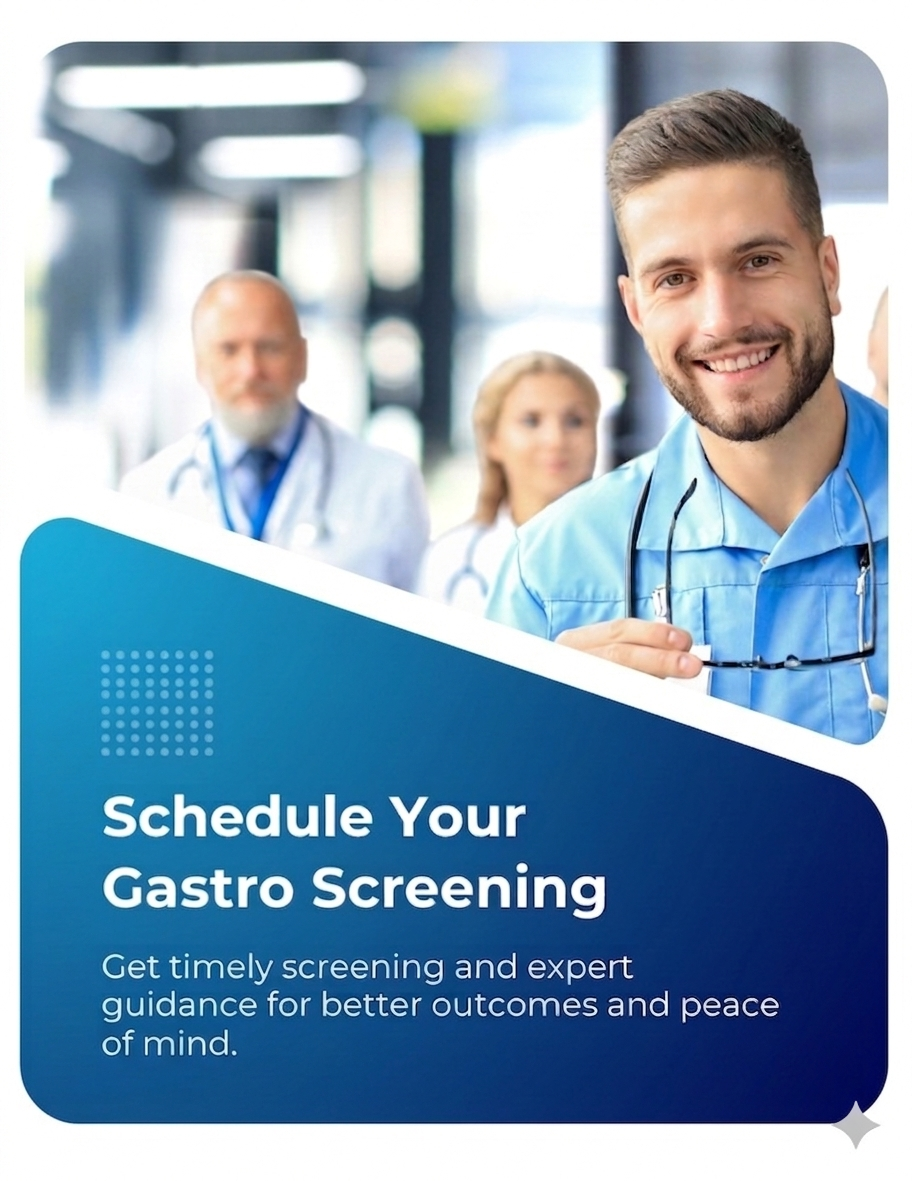
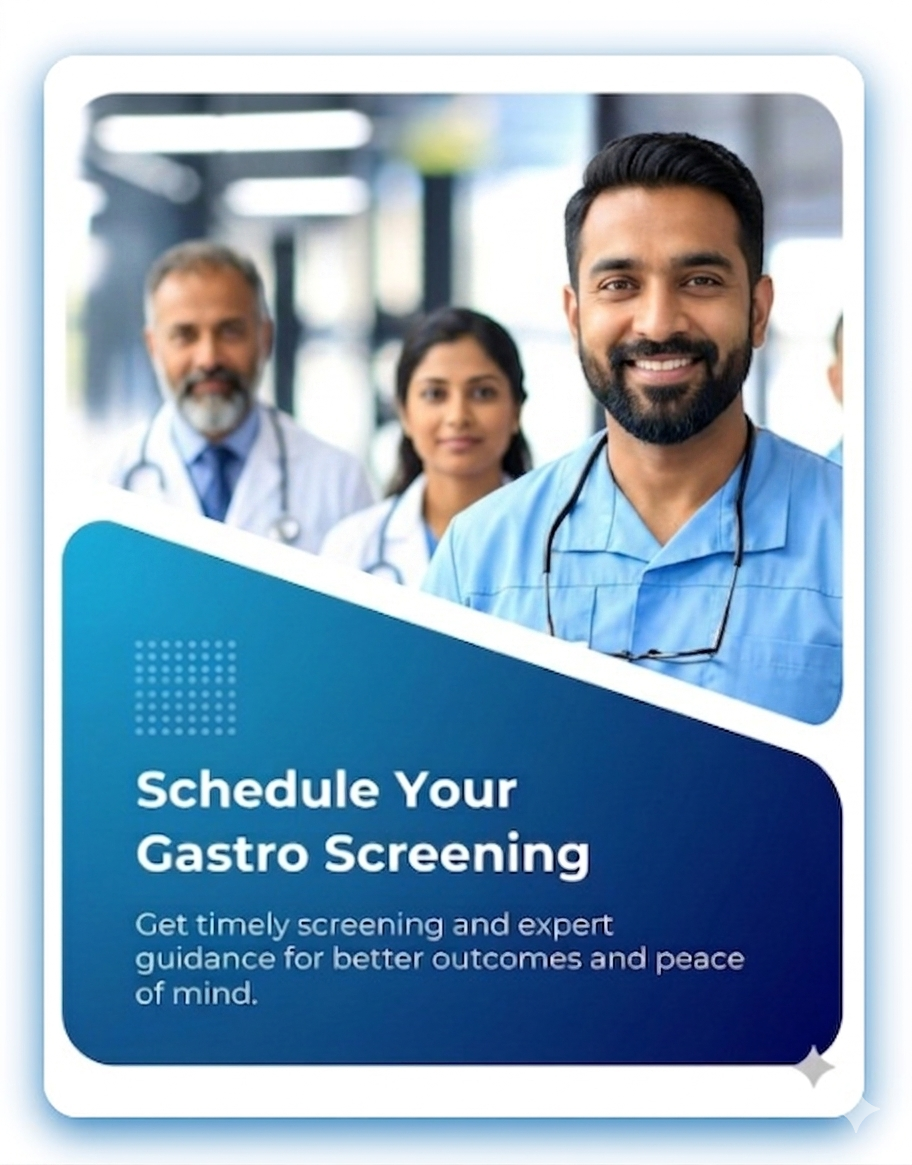
design change

diff --git a/index.html b/index.html
@@ -1106,7 +1106,7 @@
                                     
 
                                     <li class="hide-on-scroll">
-                                        <a href="https://182.71.200.13:50030/" target="_blank" class="btn report-btn" id="report-btn">Book Appointment<i class="fa-solid fa-download" style="font-size: 15px; margin-left:3px;"></i></a>
+                                        <a href="appointment.html" target="_blank" class="btn report-btn" id="report-btn">Book Appointment<i class="fa-solid fa-download" style="font-size: 15px; margin-left:3px;"></i></a>
                                     </li>
                                 </ul>
                             </nav>
@@ -1288,21 +1288,7 @@ document.addEventListener("DOMContentLoaded", function () {
             </picture>
             
         </div>
-        <div class="slide-item">
-            <picture>
-                <!-- Mobile image -->
-                <source media="(max-width: 767px)" srcset="image_website/banner15.png">
-                <!-- Desktop image -->
-                <img src="image_website/banner15.png"
-                    alt=" "
-                    width="1920"
-                    height="550"
-                    loading="eager"                             
-                    fetchpriority="high"                             
-                    class="banner-img img-fluid">
-            </picture>
-            
-        </div>
+       
         <div class="slide-item">
             <picture>
                 <!-- Mobile image -->
@@ -1319,11 +1305,9 @@ document.addEventListener("DOMContentLoaded", function () {
             
         </div>
  
-        <div class="slide-item">
+        <!-- <div class="slide-item">
             <picture>
-                <!-- Mobile image -->
                 <source media="(max-width: 767px)" srcset="image_website/banner3.png">
-                <!-- Desktop image -->
                 <img src="image_website/banner3.png"
                     alt=" "
                     loading="eager"                             
@@ -1334,9 +1318,7 @@ document.addEventListener("DOMContentLoaded", function () {
         </div>
         <div class="slide-item">
             <picture>
-                <!-- Mobile image -->
                 <source media="(max-width: 767px)" srcset="image_website/banner11.png">
-                <!-- Desktop image -->
                 <img src="image_website/banner11.png"
                     alt=" "
                     width="1920"
@@ -1350,9 +1332,7 @@ document.addEventListener("DOMContentLoaded", function () {
         
         <div class="slide-item">
             <picture>
-                <!-- Mobile image -->
                 <source media="(max-width: 767px)" srcset="image_website/banner2.png">
-                <!-- Desktop image -->
                 <img src="image_website/banner2.png"
                     alt=" "
                     width="1920"
@@ -1362,7 +1342,7 @@ document.addEventListener("DOMContentLoaded", function () {
                     class="banner-img img-fluid">
             </picture>
             
-        </div>
+        </div> -->
 
                 
         
@@ -1590,7 +1570,7 @@ color: white;
                 <!-- Service Block -->
                                         <div class="service-block col-lg-4 col-md-6 col-sm-12">
                             <div class="">
-                                <span><a href=""><img src="image_website/paeditraic_oncology.jpeg" alt="Cardiac Sciences" loading="lazy" style="border-radius:10px;"></a></span>
+                                <span><a href=""><img src="image_website/general_gastroenterology.png" alt="Cardiac Sciences" loading="lazy" style="border-radius:10px;"></a></span>
                                 <h3 class="mt-3" style="font-weight: 600;font-weight: 600;line-height: 1.2em; margin-bottom: 10px;font-size: 24px;"><a href="/department/coe_dept/cardiac-sciences" id="1" style="color: #00307E;">General Gastroenterology</a></h3>
                                 <div class="text coe_text">
                                     <!-- <ul style="text-align:left;">
@@ -1604,7 +1584,7 @@ color: white;
                         </div>						
                                         <div class="service-block col-lg-4 col-md-6 col-sm-12">
                             <div class="">
-                                <span><a href=""><img src="image_website/hemato_oncology.jpeg" alt="Neurosciences" loading="lazy" style="border-radius:10px;"></a></span>
+                                <span><a href=""><img src="image_website/hepatology.png" alt="Neurosciences" loading="lazy" style="border-radius:10px;"></a></span>
                                 <h3 class="mt-3" style="font-weight: 600;font-weight: 600;line-height: 1.2em; margin-bottom: 10px;font-size: 24px;"><a href="/department/coe_dept/neurosciences" id="2" class="btn-title" style="color: #00307E;">Hepatology</a></h3>
                                 <div class="text coe_text">
                                     <!-- <ul style="text-align:left;">
@@ -1617,7 +1597,7 @@ color: white;
                         </div>						
                                         <div class="service-block col-lg-4 col-md-6 col-sm-12">
                             <div class="">
-                                <span><a href=""><img src="image_website/gynecology_oncology.jpeg" alt="Kidney Diseases" loading="lazy" style="border-radius:10px;"></a></span>
+                                <span><a href=""><img src="image_website/pancreatology.png" alt="Kidney Diseases" loading="lazy" style="border-radius:10px;"></a></span>
                                 <h3 class="mt-3" style="font-weight: 600;font-weight: 600;line-height: 1.2em; margin-bottom: 10px;font-size: 24px;"><a href="/department/coe_dept/kidney-diseases" id="4" class="btn-title" style="color: #00307E;"
                                 >Pancreatology</a></h3>
                                 <div class="text coe_text">
@@ -1631,7 +1611,7 @@ color: white;
                         </div>		
                           <div class="service-block col-lg-4 col-md-6 col-sm-12">
                             <div class="">
-                                <span><a href=""><img src="image_website/gynecology_oncology.jpeg" alt="Kidney Diseases" loading="lazy" style="border-radius:10px;"></a></span>
+                                <span><a href=""><img src="image_website/gastrointestinal.png" alt="Kidney Diseases" loading="lazy" style="border-radius:10px;"></a></span>
                                 <h3 class="mt-3" style="font-weight: 600;font-weight: 600;line-height: 1.2em; margin-bottom: 10px;font-size: 24px;"><a href="/department/coe_dept/kidney-diseases" id="4" class="btn-title" style="color: #00307E;"
                                 >Gastrointestinal (GI) Oncology</a></h3>
                                 <div class="text coe_text">
@@ -1645,7 +1625,7 @@ color: white;
                         </div>						
                         <div class="service-block col-lg-4 col-md-6 col-sm-12">
                             <div class="">
-                                <span><a href=""><img src="image_website/neuro_oncology.jpeg" alt="Gastroenterology & G.I. Surgery" loading="lazy" style="border-radius:10px;"></a></span>
+                                <span><a href=""><img src="image_website/paeditriac_gastroentrology.png" alt="Gastroenterology & G.I. Surgery" loading="lazy" style="border-radius:10px;"></a></span>
                                 <h3 class="mt-3" style="font-weight: 600;font-weight: 600;line-height: 1.2em; margin-bottom: 10px;font-size: 24px;"><a href="/department/coe_dept/gastroenterology-gi-surgery" id="5" style="color: #00307E;">Pediatric Gastroenterology</a></h3>
                                 <div class="text coe_text">
                                     <!-- <ul style="text-align:left;">
@@ -1685,7 +1665,71 @@ color: white;
         }
     </script>
     <!--End COE Section -->
-
+<section class="about-section" id="coe">
+    <div class="auto-container">
+        <div class="sec-title text-center">
+            <h1 style="display: block;font-size: 36px;font-weight: 700;color: var(--purple-100);;">Gastroenterology Services</h1>
+            <span class="sub-title">Providing Gastroenterology Care Services For The Our Community.</span>
+            <span class="divider mb-5"></span>
+        </div>
+        <div class="row">
+            <div class="service-block col-lg-3 col-md-6 col-sm-12">
+                <div class="inner-box">
+                    <span><a href=""><img src="image_website/eus.png" alt="Cardiac Sciences" loading="lazy" style="border-radius:10px;"></a></span>
+                    <h3 class="mt-3" style="font-weight: 600;font-weight: 600;line-height: 1.2em; margin-bottom: 10px;font-size: 24px;"><a href="/department/coe_dept/cardiac-sciences" id="1" style="color: #00307E;">EUS</a></h3>
+                </div>
+            </div>						
+            <div class="service-block col-lg-3 col-md-6 col-sm-12">
+                <div class="inner-box">
+                    <span><a href=""><img src="image_website/fna_fnb.png" alt="Neurosciences" loading="lazy" style="border-radius:10px;"></a></span>
+                    <h3 class="mt-3" style="font-weight: 600;font-weight: 600;line-height: 1.2em; margin-bottom: 10px;font-size: 24px;"><a href="/department/coe_dept/neurosciences" id="2" class="btn-title" style="color: #00307E;">FNA/FNB</a></h3>
+                </div>
+            </div>						
+            <div class="service-block col-lg-3 col-md-6 col-sm-12">
+                <div class="inner-box">
+                    <span><a href=""><img src="image_website/ercp.png" alt="Kidney Diseases" loading="lazy" style="border-radius:10px;"></a></span>
+                    <h3 class="mt-3" style="font-weight: 600;font-weight: 600;line-height: 1.2em; margin-bottom: 10px;font-size: 24px;"><a href="/department/coe_dept/kidney-diseases" id="4" class="btn-title" style="color: #00307E;">ERCO</a></h3>
+                </div>
+            </div>					
+            <div class="service-block col-lg-3 col-md-6 col-sm-12">
+                <div class="inner-box">
+                    <span><a href=""><img src="image_website/endosurgery.png" alt="Gastroenterology & G.I. Surgery" loading="lazy" style="border-radius:10px;"></a></span>
+                    <h3 class="mt-3" style="font-weight: 600;font-weight: 600;line-height: 1.2em; margin-bottom: 10px;font-size: 24px;"><a href="/department/coe_dept/gastroenterology-gi-surgery" id="5" style="color: #00307E;">Endosurgery</a></h3>
+                </div>
+            </div>	
+            <div class="service-block col-lg-3 col-md-6 col-sm-12">
+                <div class="inner-box">
+                    <span><a href=""><img src="image_website/colonscopy.png" alt="Cardiac Sciences" loading="lazy" style="border-radius:10px;"></a></span>
+                    <h3 class="mt-3" style="font-weight: 600;font-weight: 600;line-height: 1.2em; margin-bottom: 10px;font-size: 24px;"><a href="/department/coe_dept/cardiac-sciences" id="1" style="color: #00307E;">Colonscopy</a></h3>
+                </div>
+            </div>						
+            <div class="service-block col-lg-3 col-md-6 col-sm-12">
+                <div class="inner-box">
+                    <span><a href=""><img src="image_website/spyglass.png" alt="Neurosciences" loading="lazy" style="border-radius:10px;"></a></span>
+                    <h3 class="mt-3" style="font-weight: 600;font-weight: 600;line-height: 1.2em; margin-bottom: 10px;font-size: 24px;"><a href="/department/coe_dept/neurosciences" id="2" class="btn-title" style="color: #00307E;">SpyGlass Cholangioscopy</a></h3>
+                </div>
+            </div>
+            <div class="service-block col-lg-3 col-md-6 col-sm-12">
+                <div class="inner-box">
+                    <span><a href=""><img src="image_website/paeditric_endoscopy.png" alt="Cardiac Sciences" loading="lazy" style="border-radius:10px;"></a></span>
+                    <h3 class="mt-3" style="font-weight: 600;font-weight: 600;line-height: 1.2em; margin-bottom: 10px;font-size: 24px;"><a href="/department/coe_dept/cardiac-sciences" id="1" style="color: #00307E;">Pediatric Endoscopy</a></h3>
+                </div>
+            </div>						
+            <div class="service-block col-lg-3 col-md-6 col-sm-12">
+                <div class="inner-box">
+                    <span><a href=""><img src="image_website/fibroscan.png" alt="Neurosciences" loading="lazy" style="border-radius:10px;"></a></span>
+                    <h3 class="mt-3" style="font-weight: 600;font-weight: 600;line-height: 1.2em; margin-bottom: 10px;font-size: 24px;"><a href="/department/coe_dept/neurosciences" id="2" class="btn-title" style="color: #00307E;">FibroScan</a></h3>
+                </div>
+            </div>	
+            <div class="service-block col-lg-3 col-md-6 col-sm-12">
+                <div class="inner-box">
+                    <span><a href=""><img src="image_website/manometry.png" alt="Neurosciences" loading="lazy" style="border-radius:10px;"></a></span>
+                    <h3 class="mt-3" style="font-weight: 600;font-weight: 600;line-height: 1.2em; margin-bottom: 10px;font-size: 24px;"><a href="/department/coe_dept/neurosciences" id="2" class="btn-title" style="color: #00307E;">Manometry</a></h3>
+                </div>
+            </div>                     
+        </div>
+    </div>
+</section>
 
     <style>
         .service-block h3 a:hover {
@@ -1986,7 +2030,7 @@ color: white;
     <section class="team-section-two alternate alternate2">
         <div class="auto-container">
             <div class="sec-title text-center">
-                <h2>Gastroenterology</h2>
+                <h2>Team Members</h2>
                 <span class="sub-title">The specialized departments at Orchid Medical Centre deliver cutting-edge care by combining unmatched expertise with cutting-edge technology in a broad scope of clinical categories.</span>
                 <span class="divider"></span>
             </div>
@@ -2054,7 +2098,7 @@ color: white;
 </style>
 <div class="doctor-container">
     <div class="row g-4">
-        <div class="col-6 col-md-3 col-lg-3">
+        <div class="col-6 col-md-4 col-lg-4">
             <div class="doctor-card">
                 <img src="image_website/dr_jayant.webp" alt="Dr Jayant Ghosh">
                 <h3 class="text-center">Dr Jayant Ghosh</h3>
@@ -2064,7 +2108,7 @@ color: white;
                 </div>
             </div>
         </div>
-        <div class="col-6 col-md-3 col-lg-3">
+        <div class="col-6 col-md-4 col-lg-4">
             <div class="doctor-card">
                 <img src="image_website/dr_akhilesh.webp" alt="Dr Akhilesh Yadav">
                 <h3 class="text-center">Dr Akhilesh Yadav</h3>
@@ -2291,7 +2335,7 @@ color: white;
 }
 
 .sub-title{
-    font-size: 14px;
+    font-size: 14px !important;
     text-transform: capitalize;
     
     font-weight: 600;
@@ -3013,14 +3057,14 @@ color: white;
                                     <li><a href="index.html">Home</a></li>
 
 
-                                    <li><a href="/#coe">Centre Of Excellence</a></li>
-                                    <li><a href="/#spcl">Specialities</a></li>
+                                    <li><a href="#">Department</a></li>
+                                    <li><a href="#">Treatments</a></li>
 
-                                    <li><a href="https://www.orchidmedcentre.com/academics/">Academics</a></li>
-                                    <li><a href="https://www.orchidmedcentre.com/technologies/">Technologies</a></li>
-                                    <li><a href="https://www.orchidmedcentre.com/patient_testimonial/">Patient Testimonial</a></li>
-                                    <li><a href="https://www.orchidmedcentre.com/contact_us/contact/">Contact Us</a></li>
-                                    <li><a href="https://www.orchidmedcentre.com/bmw_reports/">Biomedical Waste Report</a></li>
+                                    <li><a href="alliance.html">Alliances</a></li>
+                                    <li><a href="media.html">Media</a></li>
+                                    <li><a href="blogs.html">Blogs</a></li>
+                                    <li><a href="contact.html">Contact Us</a></li>
+                                    <li><a href="appointment.html">Appointment</a></li>
                                 </ul>
                             </div>
                         </div>
@@ -3031,48 +3075,7 @@ color: white;
                 <div class="big-column col-xl-6 col-lg-12 col-md-12 col-sm-12">
                     <div class="row">
                         <!--Footer Column-->
-                        <div class="footer-column col-lg-6 col-md-6 col-sm-12">
-                            <!--Footer Column-->
-                            <div class="footer-widget recent-posts">
-                                <div class="widget-title">Latest News</div>
-                                <!--Footer Column-->
-                                <div class="widget-content">
-
-
-                                    
-
-
-
-                                            <div class="post">
-                                                <div class="thumb"><a href="https://www.orchidmedcentre.com/news/details/dr-neha-mookim"><img src="image_website/6936c20f17e14_68b93f43089eb_Dr Neha Mookim.webp" alt="Orchid Medical Centre Welcomes Dr Neha Mookim"></a></div>
-                                                <div><a href="https://www.orchidmedcentre.com/news/details/dr-neha-mookim" style="color: #ffffff;">Orchid Medical Centre Welcomes Dr Neha Mookim</a></div>
-                                                <!-- <span class="date">July 11, 2020</span> -->
-                                            </div>
-
-                                    
-
-
-
-                                            <div class="post">
-                                                <div class="thumb"><a href="https://www.orchidmedcentre.com/news/details/dr-priyanka-talk"><img src="image_website/6937a817b5b32_Orchid Antenatal Gynaecology Health Talk at NTPC Patratu.webp" alt="Spreading Awareness with Insightful High-Risk Pregnancy & Antenatal Gynaecology Health Talk at NTPC Patratu"></a></div>
-                                                <div><a href="https://www.orchidmedcentre.com/news/details/dr-priyanka-talk" style="color: #ffffff;">Spreading Awareness with Insightful High-Risk Pregnancy & Antenatal Gynaecology Health Talk at NTPC Patratu</a></div>
-                                                <!-- <span class="date">July 11, 2020</span> -->
-                                            </div>
-
-                                    
-
-
-
-                                            <div class="post">
-                                                <div class="thumb"><a href="https://www.orchidmedcentre.com/news/details/lavi-ram"><img src="image_website/6937a90f3646e_67063cd2c2566_460477881_548833574164806_3813478367111964733_n.webp" alt="आर्किड में हुआ डायलिसिस पेशेंट का सफल सुपीरियर मेजेंटेरिक धमनी का इलाज"></a></div>
-                                                <div><a href="https://www.orchidmedcentre.com/news/details/lavi-ram" style="color: #ffffff;">आर्किड में हुआ डायलिसिस पेशेंट का सफल सुपीरियर मेजेंटेरिक धमनी का इलाज</a></div>
-                                                <!-- <span class="date">July 11, 2020</span> -->
-                                            </div>
-
-                                    
-                                </div>
-                            </div>
-                        </div>
+                     
 
                         <!--Footer Column-->
                         <div class="footer-column col-lg-6 col-md-6 col-sm-12">
@@ -3159,7 +3162,7 @@ color: white;
                         Copyright &copy;<script>
                             document.write(new Date().getFullYear());
                         </script>
-                        All rights reserved <a href="https://www.orchidmedcentre.com/ " target="_blank">Orchid Medical</a>
+                        All rights reserved <a href="https://www.orchidmedcentre.com/ " target="_blank">Orchid Medical Centre</a>
                     </p>
 
                 </div>

diff --git a/about.html b/about.html
@@ -1323,7 +1323,7 @@ document.addEventListener("DOMContentLoaded", function () {
                 <div class="content-column col-lg-6 col-md-12 col-sm-12">
                     <div class="inner-column">
                         <div class="sec-title">
-                            <h1 style="display: block;font-size: 36px;line-height: 1.2em;font-weight: 700;color: var(--purple-100);;">About Gastroenterology</h1>
+                            <h1 style="display: block;font-size: 36px;font-weight: 700;color: var(--purple-100);;">About Gastroenterology</h1>
                             <span class="sub-title">Gastroenterology is a branch of medicine that focuses on the digestive system (also called the gastrointestinal or GI system) and its disorders.</span>
                             <span class="divider"></span>
                            
@@ -1519,6 +1519,71 @@ color: white;
                                      
         </div>
     </section>
+    <section class="about-section" id="coe">
+    <div class="auto-container">
+        <div class="sec-title text-center">
+            <h1 style="display: block;font-size: 36px;font-weight: 700;color: var(--purple-100);;">Gastroenterology Services</h1>
+            <span class="sub-title">Providing Gastroenterology Care Services For The Our Community.</span>
+            <span class="divider mb-5"></span>
+        </div>
+        <div class="row">
+            <div class="service-block col-lg-3 col-md-6 col-sm-12">
+                <div class="inner-box">
+                    <span><a href=""><img src="https://samagaticancercentre.com/wp-content/uploads/2026/02/Neuro-Oncology.jpg" alt="Cardiac Sciences" loading="lazy" style="border-radius:10px;"></a></span>
+                    <h3 class="mt-3" style="font-weight: 600;font-weight: 600;line-height: 1.2em; margin-bottom: 10px;font-size: 24px;"><a href="/department/coe_dept/cardiac-sciences" id="1" style="color: #00307E;">EUS</a></h3>
+                </div>
+            </div>						
+            <div class="service-block col-lg-3 col-md-6 col-sm-12">
+                <div class="inner-box">
+                    <span><a href=""><img src="https://samagaticancercentre.com/wp-content/uploads/2026/02/Chemotherapy.jpg" alt="Neurosciences" loading="lazy" style="border-radius:10px;"></a></span>
+                    <h3 class="mt-3" style="font-weight: 600;font-weight: 600;line-height: 1.2em; margin-bottom: 10px;font-size: 24px;"><a href="/department/coe_dept/neurosciences" id="2" class="btn-title" style="color: #00307E;">FNA/FNB</a></h3>
+                </div>
+            </div>						
+            <div class="service-block col-lg-3 col-md-6 col-sm-12">
+                <div class="inner-box">
+                    <span><a href=""><img src="https://samagaticancercentre.com/wp-content/uploads/2026/02/Immunotherapy.jpg" alt="Kidney Diseases" loading="lazy" style="border-radius:10px;"></a></span>
+                    <h3 class="mt-3" style="font-weight: 600;font-weight: 600;line-height: 1.2em; margin-bottom: 10px;font-size: 24px;"><a href="/department/coe_dept/kidney-diseases" id="4" class="btn-title" style="color: #00307E;">ERCO</a></h3>
+                </div>
+            </div>					
+            <div class="service-block col-lg-3 col-md-6 col-sm-12">
+                <div class="inner-box">
+                    <span><a href=""><img src="https://samagaticancercentre.com/wp-content/uploads/2026/02/Target-Therapy.jpg" alt="Gastroenterology & G.I. Surgery" loading="lazy" style="border-radius:10px;"></a></span>
+                    <h3 class="mt-3" style="font-weight: 600;font-weight: 600;line-height: 1.2em; margin-bottom: 10px;font-size: 24px;"><a href="/department/coe_dept/gastroenterology-gi-surgery" id="5" style="color: #00307E;">Endosurgery</a></h3>
+                </div>
+            </div>	
+            <div class="service-block col-lg-3 col-md-6 col-sm-12">
+                <div class="inner-box">
+                    <span><a href=""><img src="https://samagaticancercentre.com/wp-content/uploads/2026/04/Biopsy-IHCNGS.jpg" alt="Cardiac Sciences" loading="lazy" style="border-radius:10px;"></a></span>
+                    <h3 class="mt-3" style="font-weight: 600;font-weight: 600;line-height: 1.2em; margin-bottom: 10px;font-size: 24px;"><a href="/department/coe_dept/cardiac-sciences" id="1" style="color: #00307E;">Colonscopy</a></h3>
+                </div>
+            </div>						
+            <div class="service-block col-lg-3 col-md-6 col-sm-12">
+                <div class="inner-box">
+                    <span><a href=""><img src="https://samagaticancercentre.com/wp-content/uploads/2026/04/Cancer-Screening.jpg" alt="Neurosciences" loading="lazy" style="border-radius:10px;"></a></span>
+                    <h3 class="mt-3" style="font-weight: 600;font-weight: 600;line-height: 1.2em; margin-bottom: 10px;font-size: 24px;"><a href="/department/coe_dept/neurosciences" id="2" class="btn-title" style="color: #00307E;">SpyGlass Cholangioscopy</a></h3>
+                </div>
+            </div>
+            <div class="service-block col-lg-3 col-md-6 col-sm-12">
+                <div class="inner-box">
+                    <span><a href=""><img src="https://samagaticancercentre.com/wp-content/uploads/2026/04/psycho-oncology.jpg" alt="Cardiac Sciences" loading="lazy" style="border-radius:10px;"></a></span>
+                    <h3 class="mt-3" style="font-weight: 600;font-weight: 600;line-height: 1.2em; margin-bottom: 10px;font-size: 24px;"><a href="/department/coe_dept/cardiac-sciences" id="1" style="color: #00307E;">Pediatric Endoscopy</a></h3>
+                </div>
+            </div>						
+            <div class="service-block col-lg-3 col-md-6 col-sm-12">
+                <div class="inner-box">
+                    <span><a href=""><img src="https://samagaticancercentre.com/wp-content/uploads/2026/04/Molecular-Tumor.jpg" alt="Neurosciences" loading="lazy" style="border-radius:10px;"></a></span>
+                    <h3 class="mt-3" style="font-weight: 600;font-weight: 600;line-height: 1.2em; margin-bottom: 10px;font-size: 24px;"><a href="/department/coe_dept/neurosciences" id="2" class="btn-title" style="color: #00307E;">FibroScan</a></h3>
+                </div>
+            </div>	
+            <div class="service-block col-lg-3 col-md-6 col-sm-12">
+                <div class="inner-box">
+                    <span><a href=""><img src="https://samagaticancercentre.com/wp-content/uploads/2026/02/Preventive-Oncology.jpg" alt="Neurosciences" loading="lazy" style="border-radius:10px;"></a></span>
+                    <h3 class="mt-3" style="font-weight: 600;font-weight: 600;line-height: 1.2em; margin-bottom: 10px;font-size: 24px;"><a href="/department/coe_dept/neurosciences" id="2" class="btn-title" style="color: #00307E;">Manometry</a></h3>
+                </div>
+            </div>                     
+        </div>
+    </div>
+</section>
 <section class="team-section-two alternate alternate2">
         <div class="auto-container">
             <div class="sec-title text-center">
